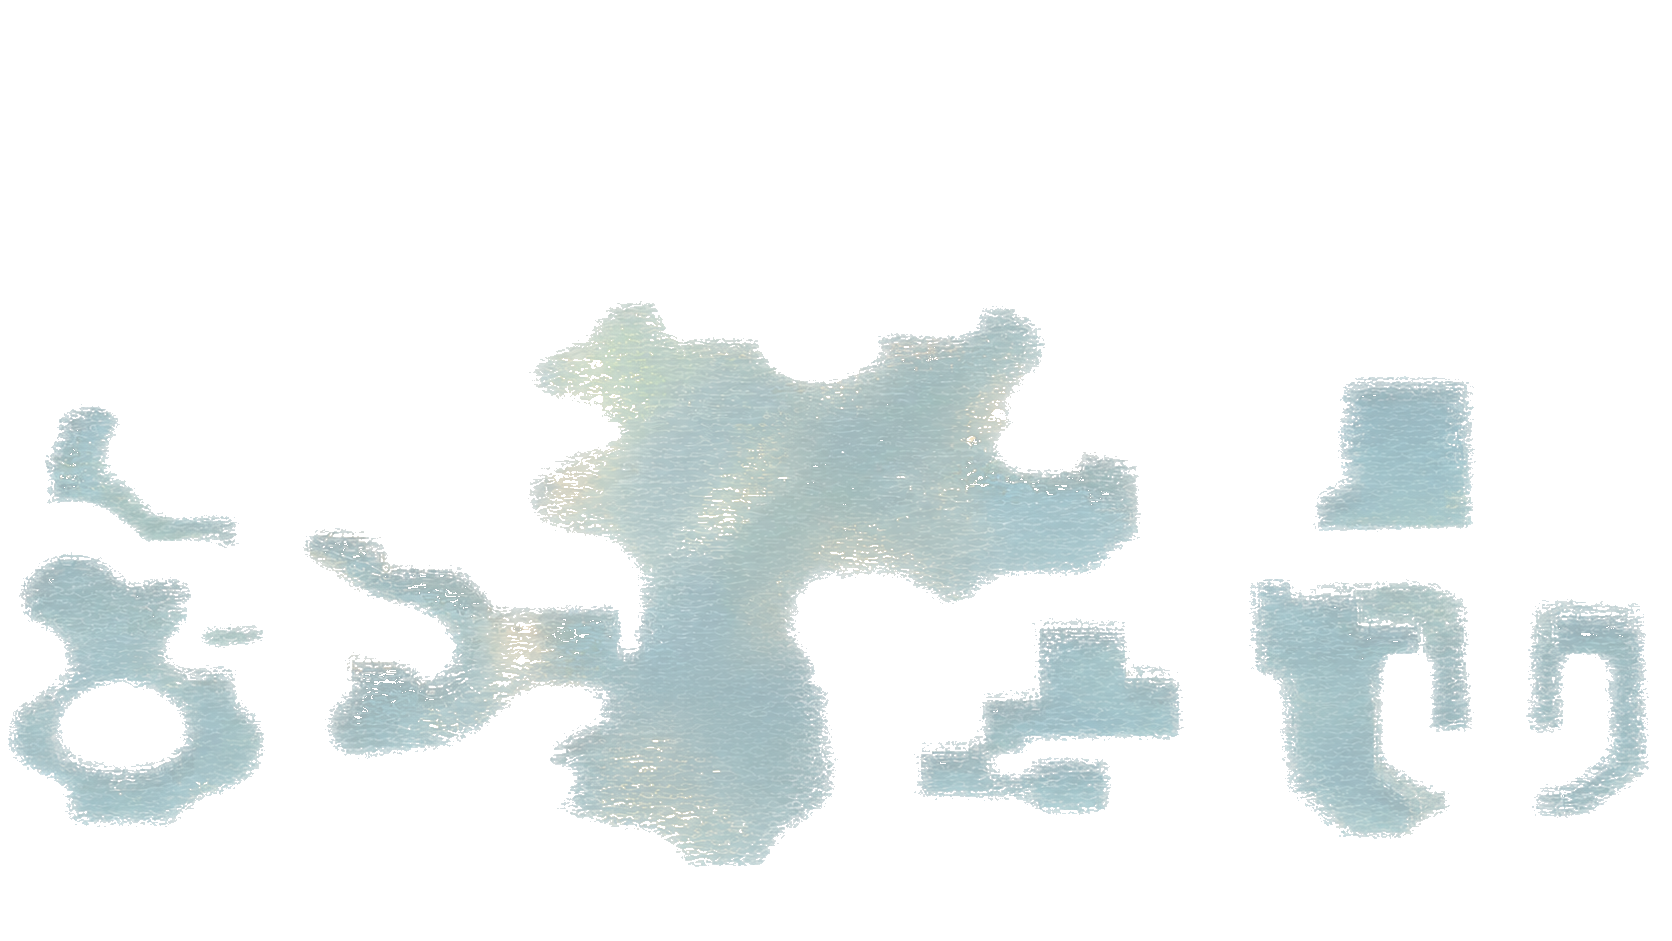
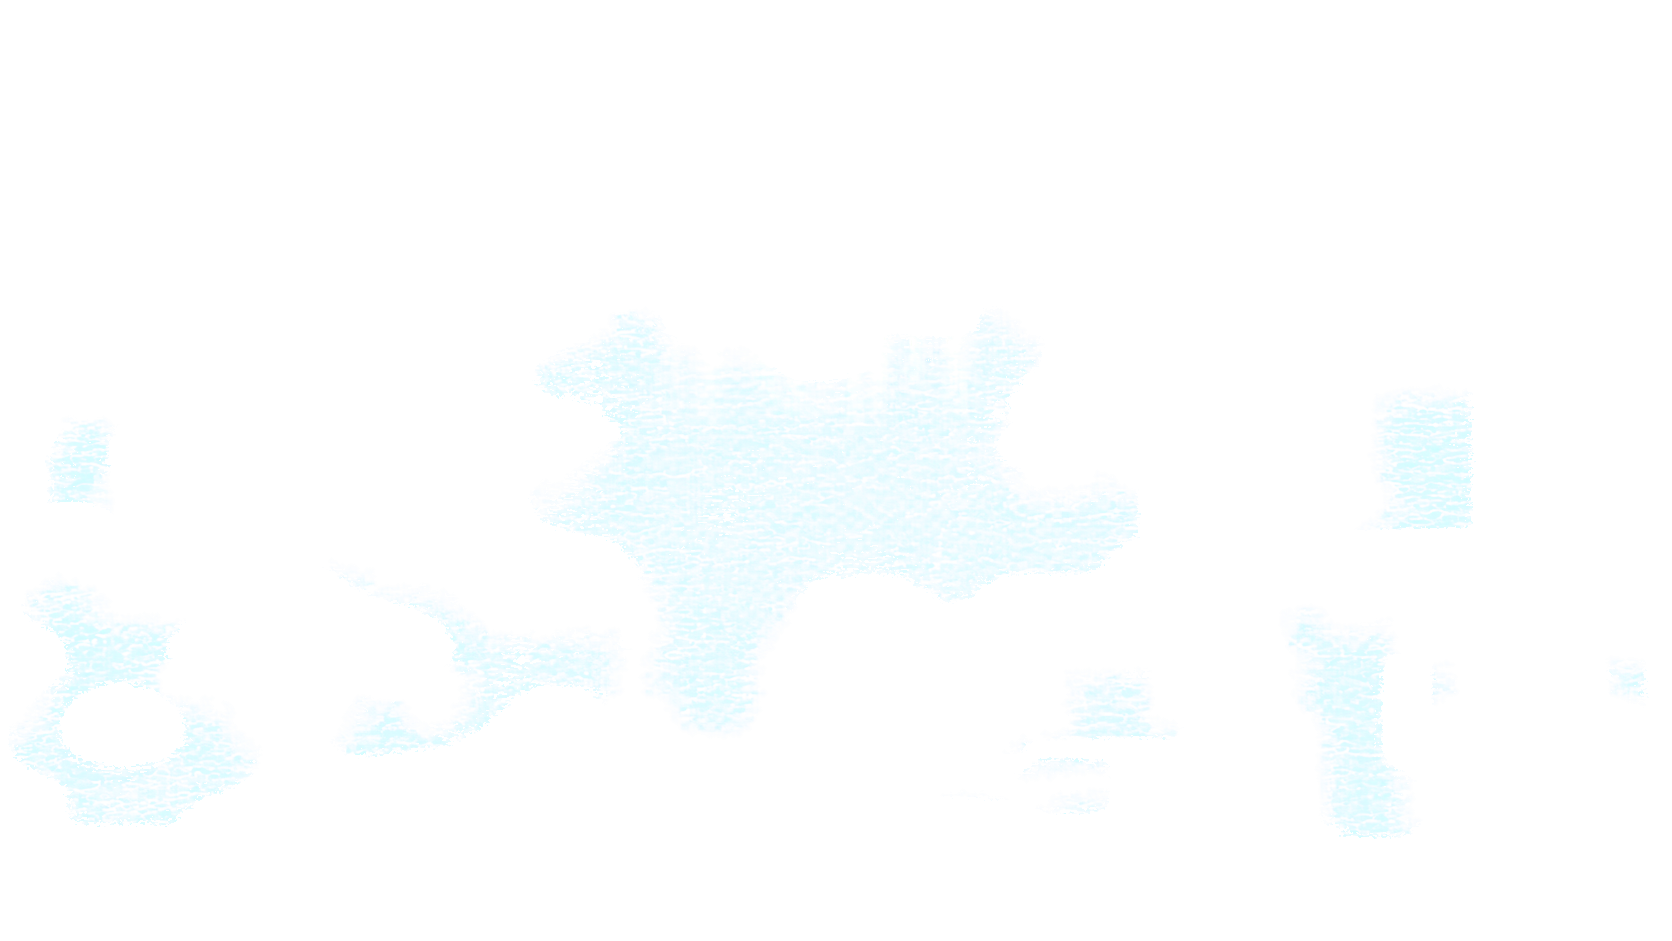
feat: integrate refined campus water layer

diff --git a/public/assets/campus/README.md b/public/assets/campus/README.md
@@ -26,6 +26,11 @@ The title logo and canopy frame also use compressed WebP runtime derivatives. Th
 original PNG files are preserved under `art-source/runtime-originals/`; the website
 only ships and loads the WebP files.
 
+The water layer delivered on 2026-07-10 is a true RGBA source. Its shoreline extended
+over a few buildings, so the runtime file is clipped by the previous verified water
+mask. Both the delivered source and previous runtime layer are preserved under
+`art-source/`.
+
 Important: the source images supplied on 2026-07-10 were RGB PNGs with checkerboard backgrounds baked into the pixels. The runtime layers here were automatically converted into RGBA for integration. For the public-quality pass, export true transparent PNGs directly from the image tool or design file.
 
 If the generated source still contains a baked checkerboard, run `scripts/process-campus-layers.py` from the project root.